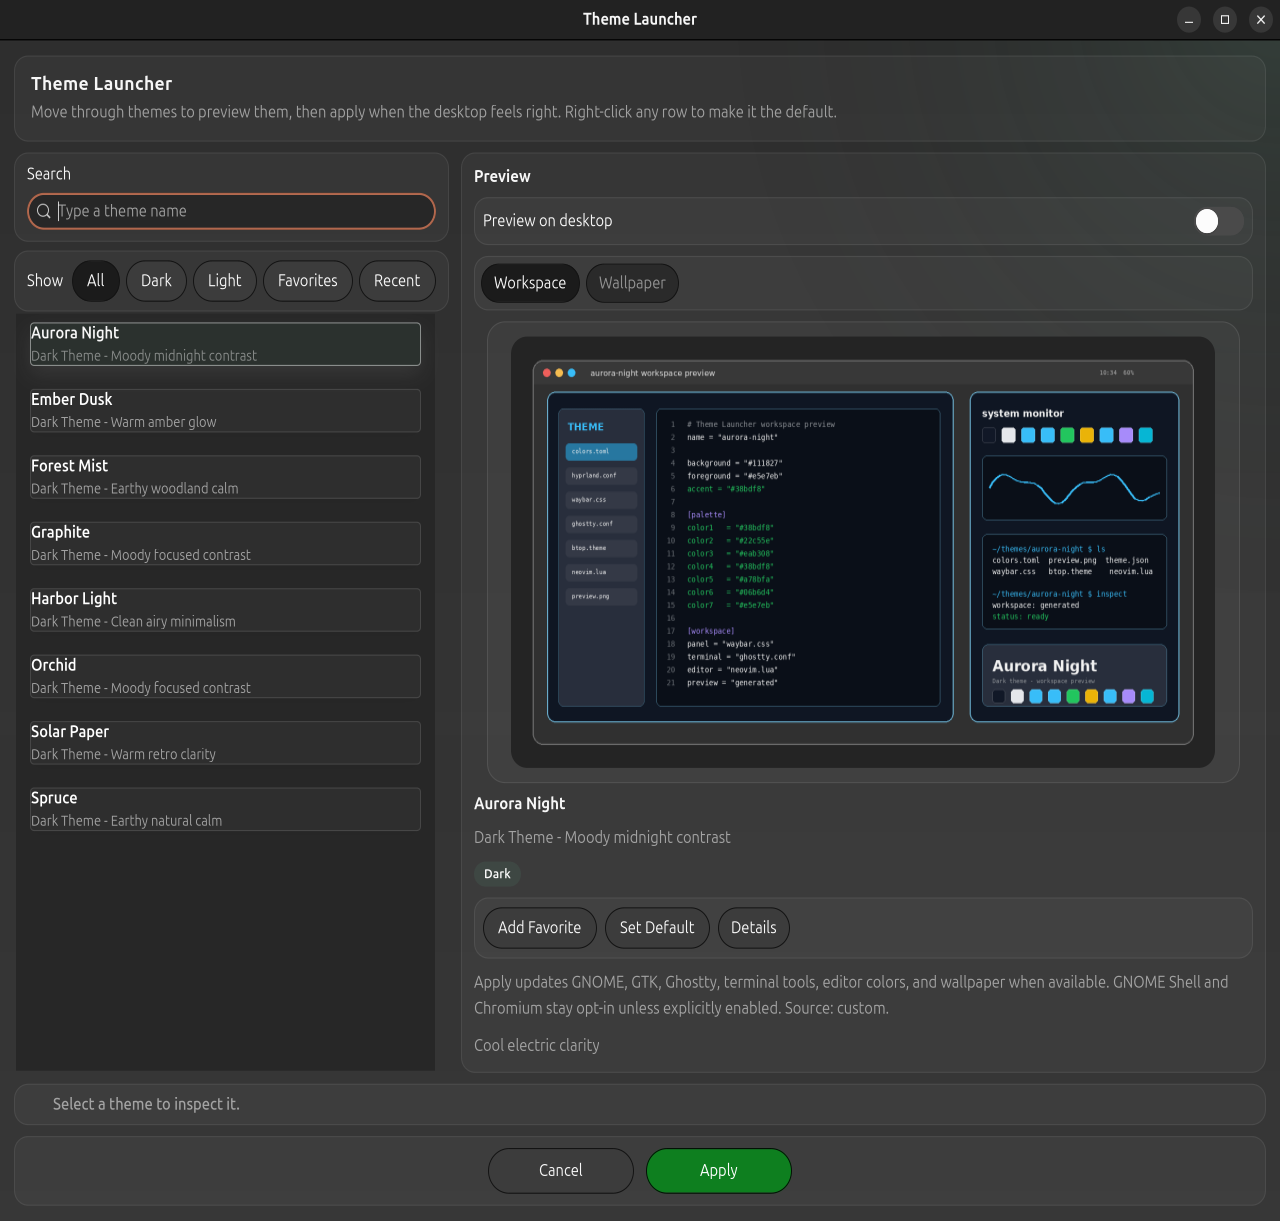
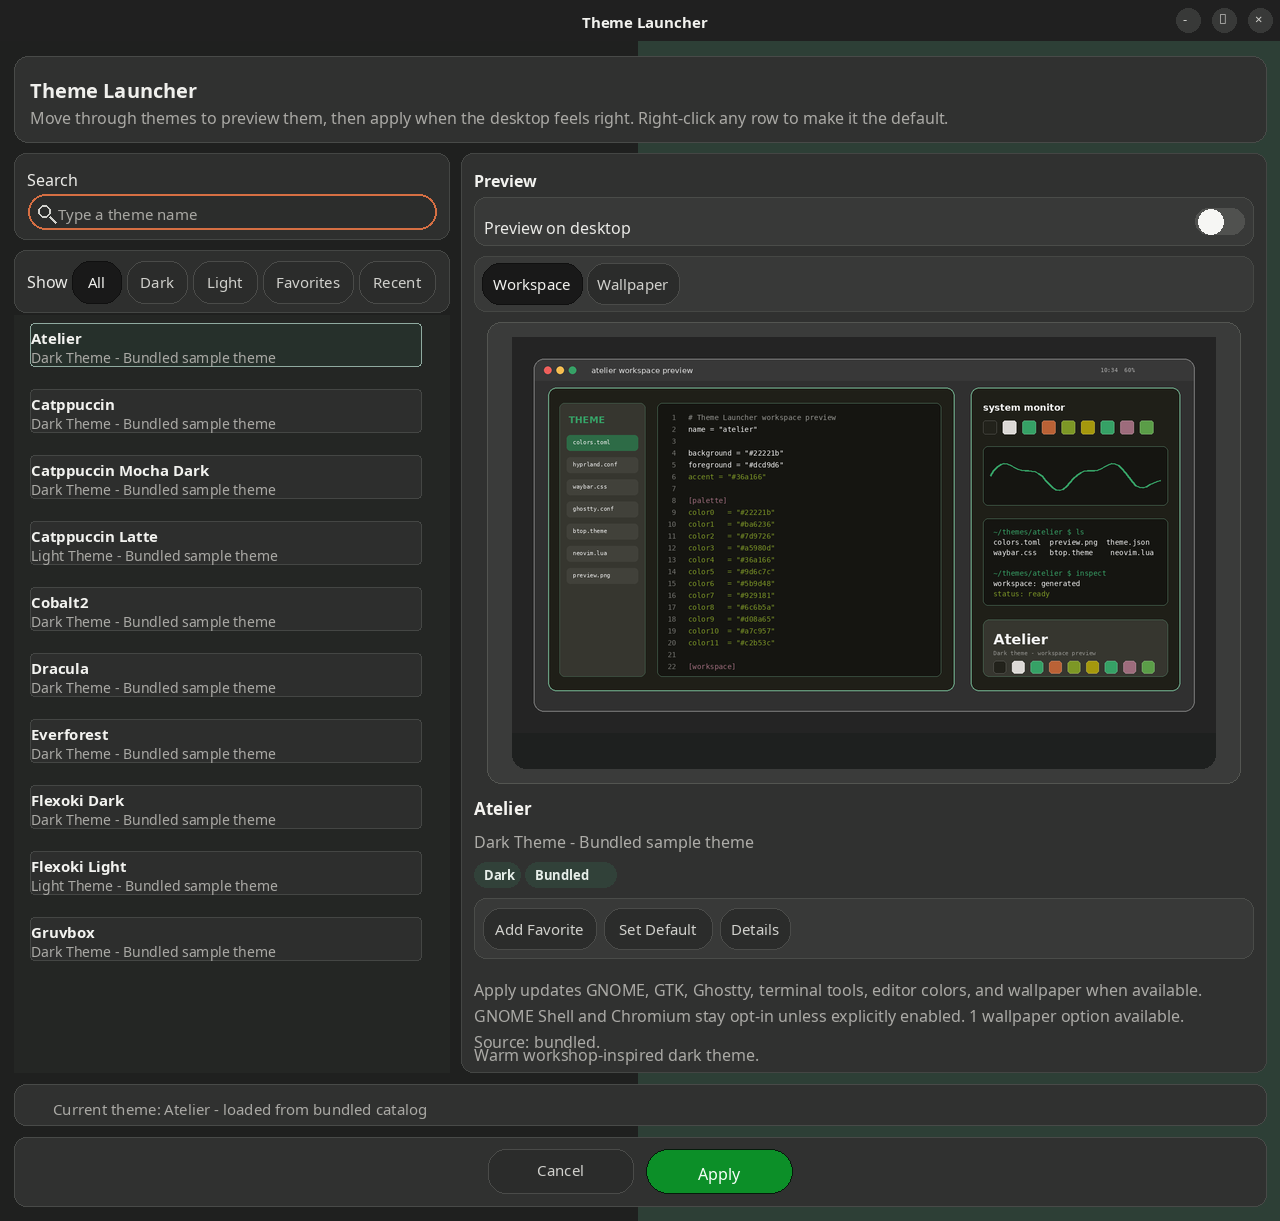
Update README screenshot

diff --git a/tests/test_metadata.py b/tests/test_metadata.py
@@ -1,5 +1,7 @@
 import json
+import os
 import subprocess
+import tempfile
 import unittest
 from pathlib import Path
 
@@ -9,13 +11,17 @@ CLI = ROOT / "bin" / "theme-launcher"
 
 
 class MetadataTest(unittest.TestCase):
-    def run_cli_json(self, *args):
+    def run_cli_json(self, *args, env=None):
+        process_env = os.environ.copy()
+        if env:
+            process_env.update(env)
         result = subprocess.run(
             [str(CLI), *args],
             cwd=ROOT,
             capture_output=True,
             text=True,
             check=True,
+            env=process_env,
         )
         return json.loads(result.stdout)
 
@@ -47,6 +53,22 @@ class MetadataTest(unittest.TestCase):
         self.assertEqual(
             single_metadata["source"],
             bulk_metadata["gruvbox"]["source"],
+        )
+
+    def test_bootstrap_loads_bundled_catalog_without_local_state(self):
+        with tempfile.TemporaryDirectory() as launcher_home:
+            bootstrap = self.run_cli_json(
+                "bootstrap",
+                env={
+                    "THEME_LAUNCHER_HOME": launcher_home,
+                    "THEME_LAUNCHER_BUNDLED_THEMES_DIR": str(ROOT / "catalog/themes"),
+                },
+            )
+
+        self.assertEqual(25, len(bootstrap["metadata"]))
+        self.assertEqual(
+            {"bundled"},
+            {item["source"] for item in bootstrap["metadata"]},
         )
 
 

diff --git a/lib/python/bootstrap.py b/lib/python/bootstrap.py
@@ -13,7 +13,6 @@ metadata = collect_theme_metadata(
     Path(sys.argv[5]),
     Path(sys.argv[6]),
     Path(sys.argv[7]),
-    Path(sys.argv[8]),
 )
 default_theme = read_text(Path(sys.argv[8]))
 current_theme = read_text(Path(sys.argv[6]))
